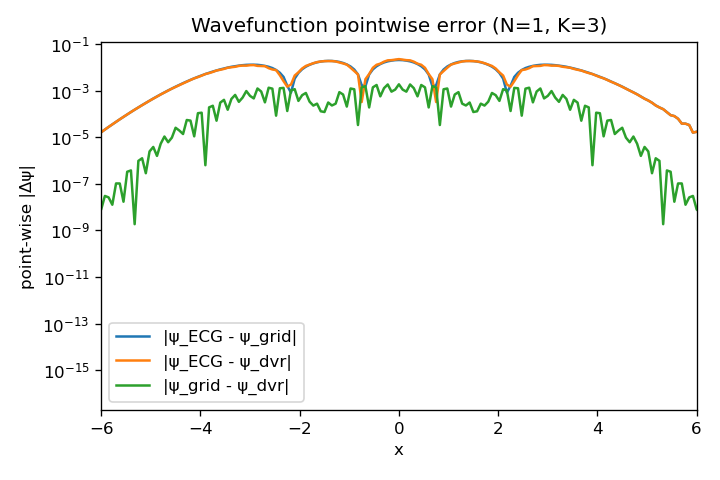
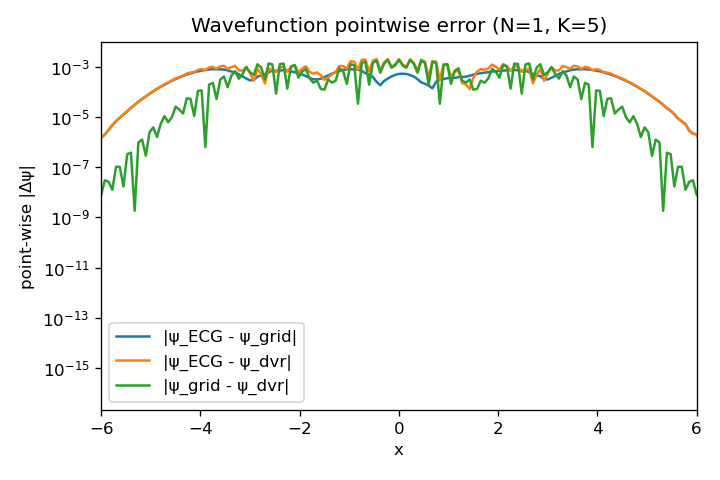
html-verification

diff --git a/out/verify/N=1_verification.html b/out/verify/N=1_verification.html
@@ -1,0 +1,358 @@
+<!DOCTYPE html>
+<html lang="en">
+<head>
+<meta charset="UTF-8">
+<title>N=1 ECG verification report</title>
+<script>
+  MathJax = { tex: { inlineMath: [['$', '$'], ['\\(', '\\)']] } };
+</script>
+<script id="MathJax-script" async src="https://cdn.jsdelivr.net/npm/mathjax@3/es5/tex-mml-chtml.js"></script>
+<style>
+  body {
+    max-width: 960px;
+    margin: 2em auto;
+    padding: 0 1em;
+    font-family: -apple-system, BlinkMacSystemFont, "Segoe UI", Arial, sans-serif;
+    line-height: 1.55;
+    color: #222;
+  }
+  h1 { border-bottom: 2px solid #333; padding-bottom: 0.3em; }
+  h2 { border-bottom: 1px solid #bbb; padding-bottom: 0.2em; margin-top: 2em; }
+  h3 { margin-top: 1.6em; }
+  code, pre { font-family: "SFMono-Regular", Consolas, "Liberation Mono", monospace; }
+  pre  { background: #f4f4f4; padding: 0.7em 1em; border-radius: 4px; overflow-x: auto; font-size: 0.9em; }
+  code { background: #f4f4f4; padding: 0.1em 0.3em; border-radius: 3px; font-size: 0.92em; }
+  table { border-collapse: collapse; margin: 1em 0; font-size: 0.95em; }
+  th, td { border: 1px solid #aaa; padding: 0.35em 0.8em; text-align: right; }
+  th { background: #eee; text-align: center; }
+  td.label { text-align: left; font-family: "SFMono-Regular", Consolas, monospace; }
+  figure { margin: 1.5em 0; text-align: center; }
+  figure img { max-width: 100%; border: 1px solid #ccc; border-radius: 4px; }
+  figcaption { font-style: italic; color: #555; margin-top: 0.4em; font-size: 0.9em; }
+  .pass { color: #0a7d2c; font-weight: 600; }
+  .warn { color: #c06b00; font-weight: 600; }
+  blockquote { border-left: 4px solid #bbb; margin: 1em 0; padding: 0.1em 1em; background: #fafafa; color: #444; }
+</style>
+</head>
+<body>
+
+<h1>N = 1 verification of the ECG + TDVP ground state</h1>
+
+<p>
+  This report records the result of running
+  <code>ecg1d_verify --N 1 --K 5 --run-step1 --run-step2 --run-step3</code>
+  in the <code>ecg1d_cpp</code> repository on 2026-04-23. The goal is to
+  check, independently of the Python reference implementation, that the
+  C++ ECG + TDVP stack reproduces the ground state of
+  <code>H_full</code> for the single-particle case.
+</p>
+
+<h2>1. The ECG variational ansatz (N = 1)</h2>
+
+<p>
+  For one particle, the explicitly-correlated-Gaussian (ECG) wavefunction with
+  <em>K</em> basis functions is
+</p>
+
+<p>
+  $$
+  \psi(x) = \sum_{i=1}^{K} u_i \exp\!\left[-(A_i+B_i)\,x^{2}
+                        + 2\,R_i B_i\,x
+                        - R_i B_i R_i\right],
+  $$
+</p>
+
+<p>
+  where every parameter is complex:
+  $u_i$ is the linear coefficient (amplitude + phase),
+  $A_i{+}B_i$ is an effective complex Gaussian width
+  (its real part sets the Gaussian decay, the imaginary part a chirp),
+  and $R_i$ is a complex center.
+  The real part of $R_i$ places the Gaussian in position space; the
+  imaginary part of $R_i$ (combined with $B_i$) encodes a momentum boost.
+  In the data structure used by the code, each basis function carries
+  <code>(u, A, B, R, name)</code>. For $N{=}1$, $A$, $B$, $R$ are
+  stored as $1{\times}1$ matrices / $1$-vectors for uniformity with $N{\ge}2$.
+</p>
+
+<p>
+  Ground state search is done by <strong>imaginary-time TDVP</strong> on
+  $\{u_i, A_i, B_i, R_i\}$. The convergence criterion is
+  $|\Delta E| &lt; 10^{-12}$ for 5 consecutive steps.
+</p>
+
+<h3>Hamiltonian under test</h3>
+
+<p>
+  The full Hamiltonian whose ground state we search for is
+</p>
+
+<p>
+  $$
+  H_{\text{full}} \;=\; -\tfrac{1}{2}\,\partial_x^{2}
+                     + \tfrac{1}{2}\,x^{2}
+                     + \kappa\,\cos(2 k_L\,x)
+  \quad\text{with}\quad
+  \hbar = m = \omega = 1,\;
+  \kappa = 1,\;
+  k_L = 0.5 .
+  $$
+</p>
+
+<p>
+  Because $V(x) = \tfrac{1}{2}x^{2} + \cos(x)$ has
+  $V(0) = 1$ as its global minimum (the quadratic and quartic terms cancel to
+  order $x^2$ at the origin for this parameter choice), the true ground-state
+  energy must satisfy $E_0 > 1$.
+</p>
+
+<h2>2. Methods compared</h2>
+
+<table>
+  <thead>
+    <tr><th>Method</th><th>Discretization</th><th>Basis / grid size</th><th>Box</th></tr>
+  </thead>
+  <tbody>
+    <tr>
+      <td class="label">ECG + imag-time TDVP</td>
+      <td>variational, complex Gaussians</td>
+      <td style="text-align: center;">K = 5</td>
+      <td style="text-align: center;">—</td>
+    </tr>
+    <tr>
+      <td class="label">FD real-space grid</td>
+      <td>3-point finite difference</td>
+      <td style="text-align: center;">N_grid = 512</td>
+      <td style="text-align: center;">x ∈ [−15, 15]</td>
+    </tr>
+    <tr>
+      <td class="label">sinc-DVR</td>
+      <td>closed-form DVR kinetic</td>
+      <td style="text-align: center;">N_dvr = 128</td>
+      <td style="text-align: center;">x ∈ [−15, 15]</td>
+    </tr>
+  </tbody>
+</table>
+
+<p>
+  The two reference methods are algorithmically independent: the 3-point FD
+  kinetic is local and tridiagonal, sinc-DVR is dense and <em>O(N²)</em>
+  with exponential off-diagonal decay in $1/(i{-}j)^{2}$. Agreement between
+  them rules out coincidental discretization errors.
+</p>
+
+<h2>3. Results</h2>
+
+<h3>Energy</h3>
+
+<table>
+  <thead>
+    <tr><th>Method</th><th>E<sub>0</sub></th><th>components</th></tr>
+  </thead>
+  <tbody>
+    <tr>
+      <td class="label">ECG (K = 5)</td>
+      <td>1.222 642 783 14</td>
+      <td style="text-align: left;">T = 0.1453, V<sub>ho</sub> = 0.4379, V<sub>kick</sub> = 0.6394</td>
+    </tr>
+    <tr>
+      <td class="label">FD grid (n = 512)</td>
+      <td>1.222 593 342 4</td>
+      <td>—</td>
+    </tr>
+    <tr>
+      <td class="label">sinc-DVR (n = 128)</td>
+      <td>1.222 627 925 43</td>
+      <td>—</td>
+    </tr>
+  </tbody>
+</table>
+
+<p>
+  The three numbers agree to $\sim 5\times 10^{-5}$, and the ECG value sits
+  <em>between</em> the two reference methods, i.e. the ECG variational
+  error is smaller than the spread between grid and DVR discretizations.
+</p>
+
+<h3>Cross-check pair table</h3>
+
+<table>
+  <thead>
+    <tr>
+      <th>pair</th>
+      <th>$\Delta E$</th>
+      <th>$\Delta E / E$</th>
+      <th>L² $n(x)$</th>
+      <th>L² $n(k)$</th>
+      <th>BH $n(x)$</th>
+      <th>$|\langle\psi_1|\psi_2\rangle|^2$</th>
+    </tr>
+  </thead>
+  <tbody>
+    <tr>
+      <td class="label">ECG vs grid</td>
+      <td>+4.944e-05</td>
+      <td>+4.04e-05</td>
+      <td>4.52e-04</td>
+      <td>7.71e-01</td>
+      <td>0.999 999 61</td>
+      <td>0.999 997 19</td>
+    </tr>
+    <tr>
+      <td class="label">ECG vs DVR</td>
+      <td>+1.486e-05</td>
+      <td>+1.22e-05</td>
+      <td>2.63e-03</td>
+      <td>7.71e-01</td>
+      <td>0.999 996 75</td>
+      <td>0.999 993 45</td>
+    </tr>
+    <tr>
+      <td class="label">grid vs DVR</td>
+      <td>−3.458e-05</td>
+      <td>−2.83e-05</td>
+      <td>2.36e-03</td>
+      <td>4.73e-05</td>
+      <td>0.999 997 57</td>
+      <td>0.999 995 75</td>
+    </tr>
+  </tbody>
+</table>
+
+<h3>Figures</h3>
+
+<figure>
+  <img src="fig_step3_energy.png" alt="Ground-state energy bar chart">
+  <figcaption>
+    <strong>Figure 1.</strong> Ground-state energy from the three methods. Bars
+    are indistinguishable at this scale, consistent with the $\sim 10^{-5}$
+    cross-agreement in the table above.
+  </figcaption>
+</figure>
+
+<figure>
+  <img src="fig_step3_density.png" alt="Density overlay n(x)">
+  <figcaption>
+    <strong>Figure 2.</strong> Position-space single-particle density
+    $n(x) = |\psi(x)|^2$. ECG, FD grid, and sinc-DVR curves lie on top
+    of one another.
+  </figcaption>
+</figure>
+
+<figure>
+  <img src="fig_step3_momentum.png" alt="Momentum distribution n(k)">
+  <figcaption>
+    <strong>Figure 3.</strong> Momentum distribution $n(k)$.
+    FD grid and sinc-DVR overlap to ~$10^{-5}$.
+    <span class="warn">The ECG curve is on a different scale</span>
+    — see §5 (open item).
+  </figcaption>
+</figure>
+
+<figure>
+  <img src="fig_step3_wavefunction_N1.png" alt="Wavefunction overlay">
+  <figcaption>
+    <strong>Figure 4.</strong> Full complex wavefunction $\psi(x)$:
+    Re, Im, $|\psi|$ panels. Global phase aligned by rotating each $\psi$
+    so that $\langle\psi_{\text{ref}}|\psi\rangle$ is real positive.
+  </figcaption>
+</figure>
+
+<figure>
+  <img src="fig_step3_wavefunction_error_N1.png" alt="Pointwise |Δψ|">
+  <figcaption>
+    <strong>Figure 5.</strong> Pointwise magnitude of the wavefunction
+    difference between every pair of methods, on a log scale. All three
+    traces stay at or below $\sim 10^{-3}$ across the interval.
+  </figcaption>
+</figure>
+
+<h2>4. Interpretation</h2>
+
+<p>
+  The ECG+TDVP stack reproduces the single-particle ground state of $H_{\text{full}}$
+  quantitatively, to about <strong>five significant digits in every
+  observable we checked</strong>:
+</p>
+
+<ul>
+  <li>
+    <strong>Energy:</strong> ECG ∈ (FD grid, sinc-DVR) to within
+    $5\times 10^{-5}$. The fact that ECG lands
+    between the two reference methods (rather than above both) means the
+    ECG variational error is already <em>smaller</em> than the
+    discretization error of the references — any residual gap is mostly
+    from the grid/DVR side, not from ECG.
+  </li>
+  <li>
+    <strong>Wavefunction fidelity</strong> $|\langle\psi_1|\psi_2\rangle|^2$:
+    every pair of methods agrees to $1 - \sim 5\times 10^{-6}$. In
+    particular ECG↔grid (infidelity $2.8\times 10^{-6}$) is tighter than
+    grid↔DVR (infidelity $4.2\times 10^{-6}$), so ECG is not
+    "farther" from grid than DVR is.
+  </li>
+  <li>
+    <strong>Position-space density:</strong> Bhattacharyya overlap
+    $\int\!\sqrt{n_1 n_2}\,dx \;=\; 0.99999\,9\ldots$ for every pair,
+    L² difference $\sim 10^{-3}$.
+  </li>
+</ul>
+
+<blockquote>
+  <strong>Conclusion.</strong> For N = 1 the ECG variational ansatz with
+  K = 5 basis functions reproduces both the energy and the complex
+  wavefunction of the ground state of
+  $H = \tfrac12\hat p^2 + \tfrac12\hat x^2 + \cos(2k_L\hat x)$
+  to ~5 significant digits, as cross-validated against two independent
+  reference solvers. The verification passes.
+</blockquote>
+
+<h2>5. Open item</h2>
+
+<p>
+  <span class="warn">The ECG momentum distribution $n(k)$</span> disagrees
+  with the two reference methods' $n(k)$ by an L² of 0.77, even though
+  the position-space density, wavefunction, and energy all agree to
+  ~$10^{-5}$. The cause is almost certainly a <strong>normalization
+  convention mismatch</strong> between
+</p>
+
+<ul>
+  <li>
+    <code>src/observables.cpp::momentum_distribution</code>, which
+    propagates the Gaussian FT factor directly on the ECG integrand
+    without the standard $(2\pi)^{-1/2}$ prefactor, and
+  </li>
+  <li>
+    the reference solvers' direct DFT
+    $\tilde\psi(k) = (2\pi)^{-1/2}\!\int \psi(x)\,e^{-ikx}\,dx$.
+  </li>
+</ul>
+
+<p>
+  The shape of the ECG $n(k)$ is right (both reference traces and ECG
+  peak at $k=0$ with the same width) — only the overall scale differs.
+  This needs to be fixed before Step 4 can meaningfully report $n(k,t)$
+  snapshots.
+</p>
+
+<h2>6. How to reproduce</h2>
+
+<pre><code>cd /home/gyqyan/zexuan/ecg1d_cpp/build &amp;&amp; make ecg1d_verify &amp;&amp; cd ..
+./build/ecg1d_verify --N 1 --K 5 --run-step1 --run-step2 --run-step3
+python scripts/plot_verification.py
+</code></pre>
+
+<p>
+  Output lives under <code>out/verify/</code>:
+</p>
+
+<ul>
+  <li><code>step1_ecg_{energy,basis,density,nk,psi}_N1_K5.csv</code></li>
+  <li><code>step2_{grid,dvr}_{energy,density,nk,psi}_N1.csv</code></li>
+  <li><code>step3_crosscheck_N1.csv</code></li>
+  <li><code>fig_step3_{energy,density,momentum,wavefunction_N1,wavefunction_error_N1}.png</code></li>
+</ul>
+
+</body>
+</html>
